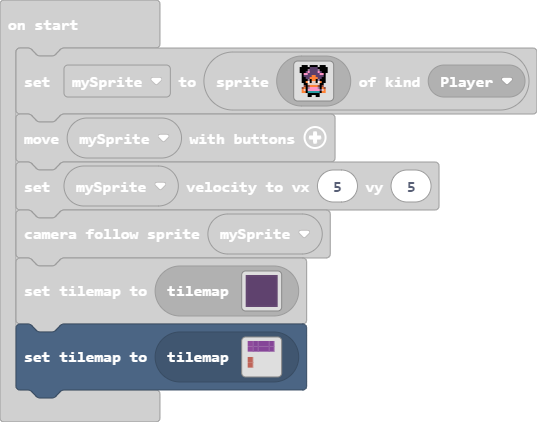
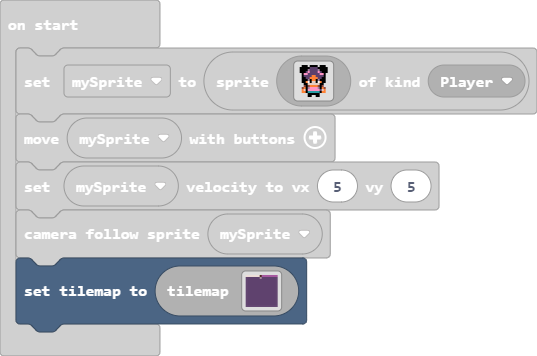
Added a tilemap

Changed region(s): [[0.0, 0.0309, 1.0, 0.9579], [0.0298, 0.8961, 0.0596, 0.927]]

diff --git a/tilemap.g.ts b/tilemap.g.ts
@@ -2,6 +2,12 @@
 namespace myTiles {
     //% fixedInstance jres blockIdentity=images._tile
     export const transparency16 = image.ofBuffer(hex``);
+    //% fixedInstance jres blockIdentity=images._tile
+    export const tile1 = image.ofBuffer(hex``);
+    //% fixedInstance jres blockIdentity=images._tile
+    export const tile2 = image.ofBuffer(hex``);
+    //% fixedInstance jres blockIdentity=images._tile
+    export const tile3 = image.ofBuffer(hex``);
 
     helpers._registerFactory("tilemap", function(name: string) {
         switch(helpers.stringTrim(name)) {
@@ -24,34 +30,63 @@ namespace myTiles {
 . . . . . . . . . . . . . . . . 
 . . . . . . . . . . . . . . . . 
 `, [myTiles.transparency16], TileScale.Sixteen);
-            case "level2":
-            case "level2":return tiles.createTilemap(hex`1000100001020202020202020202020202020203050909090909090909090909090909040509090909090909090909090909090405090909090909090909090909090904050909090909090909090909090909040509090909090909090909090909090405090909090909090909090909090904050909090909090909090909090909040509090909090909090909090909090405090909090909090909090909090904050909090909090909090909090909040509090909090909090909090909090405090909090909090909090909090904050909090909090909090909090909040509090909090909090909090909090406080808080808080808080808080807`, img`
-. . . . . . . . . . . . . . . . 
-. . . . . . . . . . . . . . . . 
-. . . . . . . . . . . . . . . . 
-. . . . . . . . . . . . . . . . 
-. . . . . . . . . . . . . . . . 
-. . . . . . . . . . . . . . . . 
-. . . . . . . . . . . . . . . . 
-. . . . . . . . . . . . . . . . 
-. . . . . . . . . . . . . . . . 
-. . . . . . . . . . . . . . . . 
-. . . . . . . . . . . . . . . . 
-. . . . . . . . . . . . . . . . 
-. . . . . . . . . . . . . . . . 
-. . . . . . . . . . . . . . . . 
-. . . . . . . . . . . . . . . . 
-. . . . . . . . . . . . . . . . 
-`, [myTiles.transparency16,sprites.dungeon.darkGroundNorthWest0,sprites.dungeon.darkGroundNorth,sprites.dungeon.darkGroundNorthEast0,sprites.dungeon.darkGroundEast,sprites.dungeon.darkGroundWest,sprites.dungeon.darkGroundSouthWest0,sprites.dungeon.darkGroundSouthEast0,sprites.dungeon.darkGroundSouth,sprites.dungeon.darkGroundCenter], TileScale.Sixteen);
             case "level3":
-            case "level3":return tiles.createTilemap(hex`05000600010101010104040505040204040406020404040604040404040303030303`, img`
-2 2 2 2 2 
-. . . . . 
-. . . . . 
-. . . . . 
-. . . . . 
-2 2 2 2 2 
-`, [myTiles.transparency16,sprites.dungeon.purpleOuterSouth1,sprites.dungeon.stairLadder,sprites.dungeon.purpleOuterNorth1,sprites.dungeon.floorLight0,sprites.dungeon.chestClosed,sprites.dungeon.collectibleInsignia], TileScale.Sixteen);
+            case "level3":return tiles.createTilemap(hex`1000100000000000000000000000000000000000000000000000000000000000000000000000000000000000000000000000000000000000000000000000000000000000000000000000000000000000000000000000000000000000000000000000000000000000000000000000000000000000000000000000000000000000000000000000000000000000000000000000000000000000000000000000000000000000000000000000000000000000000000000000000000000000000000000000000000000000000000000000000000000000000000000000000000000000000000000000000000000000000000000000000000000000000000000000000000000000`, img`
+. . . . . . . . . . . . . . . . 
+. . . . . . . . . . . . . . . . 
+. . . . . . . . . . . . . . . . 
+. . . . . . . . . . . . . . . . 
+. . . . . . . . . . . . . . . . 
+. . . . . . . . . . . . . . . . 
+. . . . . . . . . . . . . . . . 
+. . . . . . . . . . . . . . . . 
+. . . . . . . . . . . . . . . . 
+. . . . . . . . . . . . . . . . 
+. . . . . . . . . . . . . . . . 
+. . . . . . . . . . . . . . . . 
+. . . . . . . . . . . . . . . . 
+. . . . . . . . . . . . . . . . 
+. . . . . . . . . . . . . . . . 
+. . . . . . . . . . . . . . . . 
+`, [], -Infinity);
+            case "level2":
[1 lines of base64/hex data omitted]
+. . . . . . . . . . . . . . . . 
+. . . . . . . . . . . . . . . . 
+. . . . . . . . . . . . . . . . 
+. . . . . . . . . . . . . . . . 
+. . . . . . . . . . . . . . . . 
+. . . . . . . . . . . . . . . . 
+. . . . . . . . . . . . . . . . 
+. . . . . . . . . . . . . . . . 
+. . . . . . . . . . . . . . . . 
+. . . . . . . . . . . . . . . . 
+. . . . . . . . . . . . . . . . 
+. . . . . . . . . . . . . . . . 
+. . . . . . . . . . . . . . . . 
+. . . . . . . . . . . . . . . . 
+. . . . . . . . . . . . . . . . 
+. . . . . . . . . . . . . . . . 
+`, [myTiles.transparency16,sprites.dungeon.darkGroundEast,sprites.dungeon.darkGroundWest,sprites.dungeon.darkGroundSouthWest0,sprites.dungeon.darkGroundSouthEast0,sprites.dungeon.darkGroundSouth,sprites.dungeon.darkGroundCenter,sprites.dungeon.stairNorth,myTiles.tile2,sprites.builtin.brick,sprites.dungeon.purpleOuterNorth2], TileScale.Sixteen);
+            case "level4":
+            case "level4":return tiles.createTilemap(hex`1000100000000000000000000000000000000000000000000000000000000000000000000000000000000000000000000000000000000000000000000000000000000000000000000000000000000000000000000000000000000000000000000000000000000000000000000000000000000000000000000000000000000000000000000000000000000000000000000000000000000000000000000000000000000000000000000000000000000000000000000000000000000000000000000000000000000000000000000000000000000000000000000000000000000000000000000000000000000000000000000000000000000000000000000000000000000000`, img`
+. . . . . . . . . . . . . . . . 
+. . . . . . . . . . . . . . . . 
+. . . . . . . . . . . . . . . . 
+. . . . . . . . . . . . . . . . 
+. . . . . . . . . . . . . . . . 
+. . . . . . . . . . . . . . . . 
+. . . . . . . . . . . . . . . . 
+. . . . . . . . . . . . . . . . 
+. . . . . . . . . . . . . . . . 
+. . . . . . . . . . . . . . . . 
+. . . . . . . . . . . . . . . . 
+. . . . . . . . . . . . . . . . 
+. . . . . . . . . . . . . . . . 
+. . . . . . . . . . . . . . . . 
+. . . . . . . . . . . . . . . . 
+. . . . . . . . . . . . . . . . 
+`, [myTiles.transparency16], TileScale.Sixteen);
         }
         return null;
     })
@@ -59,6 +94,11 @@ namespace myTiles {
     helpers._registerFactory("tile", function(name: string) {
         switch(helpers.stringTrim(name)) {
             case "transparency16":return transparency16;
+            case "myTile":
+            case "tile1":return tile1;
+            case "myTile0":
+            case "tile2":return tile2;
+            case "tile3":return tile3;
         }
         return null;
     })

diff --git a/main.ts b/main.ts
@@ -257,4 +257,3 @@ controller.moveSprite(mySprite)
 mySprite.setVelocity(5, 5)
 scene.cameraFollowSprite(mySprite)
 tiles.setCurrentTilemap(tilemap`level2`)
-tiles.setCurrentTilemap(tilemap`level3`)
